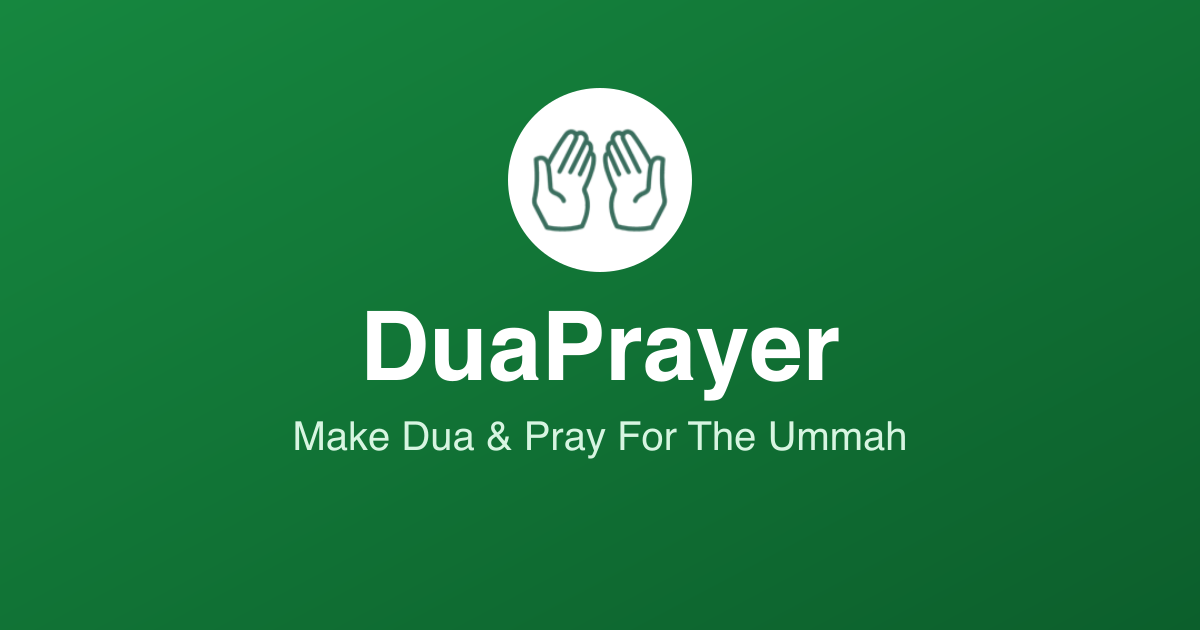
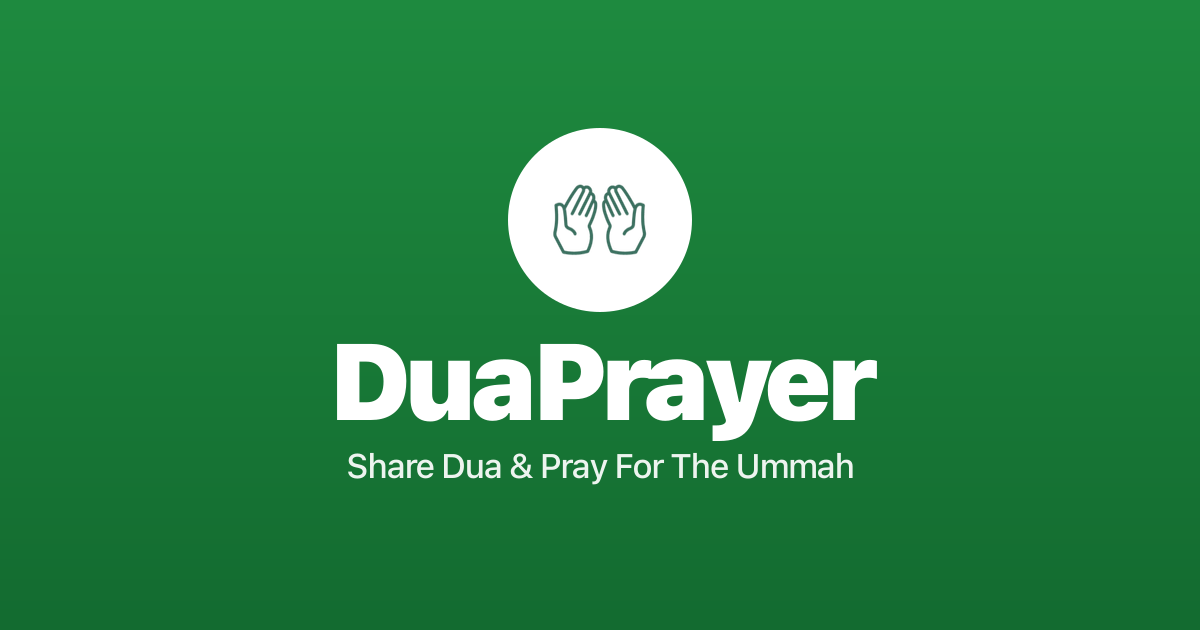
feat: rebrand "Make Dua" → "Share Dua" across UI, SEO, and og-image
- SEO title default + admin placeholder use "Share Dua & Pray For The Ummah"
- Composer English copy (submit / aria / submitting / placeholder) switches Make→Share, Making→Sharing
- Home composer + mobile top bar + design-prototype aria-labels and helper text updated
- e2e tests updated to match new button names and helper text
- Regenerate public/og-image.png with new tagline (sharp); add scripts/generate-og-image.mjs
- Add scripts/rename-make-to-share.mjs (DB site_settings sweep) and scripts/bump-og-image.mjs (og:image cache-bust)

Changed region(s): [[0.2467, 0.1206, 0.7708, 0.7841]]

diff --git a/e2e/home.spec.ts b/e2e/home.spec.ts
@@ -14,17 +14,17 @@ test.describe("Homepage", () => {
     await expect(languageFilters.getByRole("tab", { name: "AR" })).toBeVisible()
   })
 
-  test("composer uses make dua action language", async ({ page }) => {
+  test("composer uses share dua action language", async ({ page }) => {
     await page.goto("/")
 
-    const openComposerButton = page.getByRole("button", { name: "Open composer to make a dua" }).first()
-    await expect(openComposerButton).toContainText("What dua would you like to make?")
+    const openComposerButton = page.getByRole("button", { name: "Open composer to share a dua" }).first()
+    await expect(openComposerButton).toContainText("What dua would you like to share?")
     await openComposerButton.click()
 
     const composer = page.getByRole("dialog")
     await expect(composer.getByRole("heading", { name: "Share your dua with the Ummah." })).toBeVisible()
     await expect(composer.getByText("Please do not include personal or private details and keep it positive. All posts are subject to moderation. JZK")).toBeVisible()
-    await expect(composer.getByRole("button", { name: "Make Dua" })).toBeDisabled()
+    await expect(composer.getByRole("button", { name: "Share Dua" })).toBeDisabled()
 
     await composer.getByRole("combobox", { name: "Language" }).click()
     await page.getByRole("option", { name: "العربية" }).click()
@@ -64,7 +64,7 @@ test.describe("Homepage", () => {
     const uniqueText = `E2E dua ${Date.now()} may Allah grant us peace and guidance.`
 
     await page
-      .getByRole("button", { name: "Open composer to make a dua" })
+      .getByRole("button", { name: "Open composer to share a dua" })
       .first()
       .click()
 
@@ -74,7 +74,7 @@ test.describe("Homepage", () => {
     await textarea.fill(uniqueText)
 
     // Scope to the dialog: feed articles also expose action buttons.
-    const shareButton = composer.getByRole("button", { name: "Make Dua" })
+    const shareButton = composer.getByRole("button", { name: "Share Dua" })
     await expect(shareButton).toBeEnabled()
     await shareButton.click()
 
@@ -88,12 +88,12 @@ test.describe("Homepage", () => {
     // else's content — flags are one-way and only admins can clear them.
     const uniqueText = `E2E flag target ${Date.now()} may Allah grant us patience and ease.`
     await page
-      .getByRole("button", { name: "Open composer to make a dua" })
+      .getByRole("button", { name: "Open composer to share a dua" })
       .first()
       .click()
     const composer = page.getByRole("dialog")
     await composer.getByLabel("Dua text").fill(uniqueText)
-    await composer.getByRole("button", { name: "Make Dua" }).click()
+    await composer.getByRole("button", { name: "Share Dua" }).click()
 
     const targetDua = page.locator("article").filter({ hasText: uniqueText }).first()
     await expect(targetDua).toBeVisible({ timeout: 15_000 })

diff --git a/components/home-composer.tsx b/components/home-composer.tsx
@@ -86,23 +86,23 @@ export function HomeComposer({ categories, turnstileSiteKey, copy, postingMode, 
           className="flex min-w-0 flex-1 items-center rounded-full bg-muted px-4 py-3 text-[15px] font-medium text-muted-foreground shadow-[inset_0_0_0_1px_rgba(15,23,42,0.035)] transition hover:bg-white hover:text-foreground hover:shadow-[0_8px_22px_rgba(15,23,42,0.06)] focus-visible:outline-none focus-visible:ring-2 focus-visible:ring-ring focus-visible:ring-offset-2"
           aria-haspopup="dialog"
           aria-expanded={isOpen}
-          aria-label="Open composer to make a dua"
+          aria-label="Open composer to share a dua"
         >
-          <span className="truncate">What dua would you like to make?</span>
+          <span className="truncate">What dua would you like to share?</span>
         </button>
         {postingMode !== "public" ? (
           <span className="hidden rounded-full bg-muted px-2.5 py-1 text-xs font-medium text-muted-foreground sm:inline-flex">
             {postingOption?.label}
           </span>
         ) : null}
-        <ActionIconTooltip label="Make dua">
+        <ActionIconTooltip label="Share dua">
           <button
             type="button"
             onClick={() => setIsOpen(true)}
             className="inline-flex h-10 w-10 shrink-0 items-center justify-center rounded-full bg-primary text-primary-foreground shadow-[0_8px_20px_rgba(22,163,74,0.16)] transition hover:bg-primary/90 focus-visible:outline-none focus-visible:ring-2 focus-visible:ring-ring focus-visible:ring-offset-2"
             aria-haspopup="dialog"
             aria-expanded={isOpen}
-            aria-label="Open composer to make a dua"
+            aria-label="Open composer to share a dua"
           >
             <Plus className="h-5 w-5" aria-hidden="true" />
           </button>

diff --git a/app/design-prototype/page.tsx b/app/design-prototype/page.tsx
@@ -327,9 +327,9 @@ export default function DesignPrototypePage() {
                 className="flex min-w-0 flex-1 items-center rounded-full border border-border/70 bg-muted/35 px-4 py-2.5 text-[15px] font-medium text-muted-foreground shadow-inner transition hover:border-primary/25 hover:bg-white hover:text-foreground focus-visible:outline-none focus-visible:ring-2 focus-visible:ring-ring focus-visible:ring-offset-2 sm:text-base"
                 aria-haspopup="dialog"
                 aria-expanded={isComposerOpen}
-                aria-label="Open composer to make a dua"
+                aria-label="Open composer to share a dua"
               >
-                <span className="truncate">What dua would you like to make?</span>
+                <span className="truncate">What dua would you like to share?</span>
               </button>
               <button
                 type="button"
@@ -337,7 +337,7 @@ export default function DesignPrototypePage() {
                 className="inline-flex h-9 w-9 shrink-0 items-center justify-center rounded-full bg-primary text-primary-foreground transition hover:bg-primary/90 focus-visible:outline-none focus-visible:ring-2 focus-visible:ring-ring focus-visible:ring-offset-2"
                 aria-haspopup="dialog"
                 aria-expanded={isComposerOpen}
-                aria-label="Open composer to make a dua"
+                aria-label="Open composer to share a dua"
               >
                 <Plus className="h-5 w-5 transition motion-reduce:transition-none" aria-hidden="true" />
               </button>

diff --git a/lib/site-copy.ts b/lib/site-copy.ts
@@ -19,11 +19,11 @@ export const SITE_COPY_DEFAULTS = {
   composerTitleEn: "Share your dua with the Ummah.",
   composerDescriptionEn:
     "Please do not include personal or private details and keep it positive. All posts are subject to moderation. JZK",
-  composerPlaceholderEn: "Make a dua for yourself, your family, or someone who needs support...",
+  composerPlaceholderEn: "Share a dua for yourself, your family, or someone who needs support...",
   composerCategoryPlaceholderEn: "Topic",
-  composerSubmitEn: "Make",
-  composerSubmitAriaEn: "Make Dua",
-  composerSubmittingEn: "Making…",
+  composerSubmitEn: "Share",
+  composerSubmitAriaEn: "Share Dua",
+  composerSubmittingEn: "Sharing…",
   composerTitleAr: "شارك دعاءك مع الأمة.",
   composerDescriptionAr:
     "يرجى عدم تضمين تفاصيل شخصية أو خاصة، واجعل الدعاء إيجابيًا. تخضع جميع المشاركات للمراجعة. جزاكم الله خيرًا",

diff --git a/components/mobile-top-bar.tsx b/components/mobile-top-bar.tsx
@@ -36,7 +36,7 @@ export function MobileTopBar({ showCompose = false }: MobileTopBarProps) {
             <button
               type="button"
               onClick={() => setComposeOpen(true)}
-              aria-label="Make dua"
+              aria-label="Share dua"
               className="inline-flex h-10 w-10 shrink-0 items-center justify-center rounded-full bg-primary text-primary-foreground shadow-[0_8px_20px_rgba(22,163,74,0.16)] transition hover:bg-primary/90 focus-visible:outline-none focus-visible:ring-2 focus-visible:ring-ring"
             >
               <Plus className="h-5 w-5" aria-hidden="true" />

diff --git a/components/admin/seo-settings.tsx b/components/admin/seo-settings.tsx
@@ -50,7 +50,7 @@ export function SeoSettingsForm({ initialSettings }: { initialSettings: SeoSetti
           label="Site title"
           hint="The headline for search results and link previews (the browser tab title and og:title)."
         >
-          <Input id="seo-title" value={settings.title} onChange={(e) => set("title", e.target.value)} placeholder="DuaPrayer — Make Dua & Pray For The Ummah" />
+          <Input id="seo-title" value={settings.title} onChange={(e) => set("title", e.target.value)} placeholder="DuaPrayer — Share Dua & Pray For The Ummah" />
         </Field>
 
         <Field

diff --git a/lib/seo-settings-server.ts b/lib/seo-settings-server.ts
@@ -20,7 +20,7 @@ export type SeoSettings = {
 // fills the form in.
 export const SEO_DEFAULTS: SeoSettings = {
   siteName: "DuaPrayer",
-  title: "DuaPrayer — Make Dua & Pray For The Ummah",
+  title: "DuaPrayer — Share Dua & Pray For The Ummah",
   description: "Share duas and pray for the Muslim Ummah. A community prayer wall.",
   image: "/og-image.png",
   favicon: "/favicon.png",
